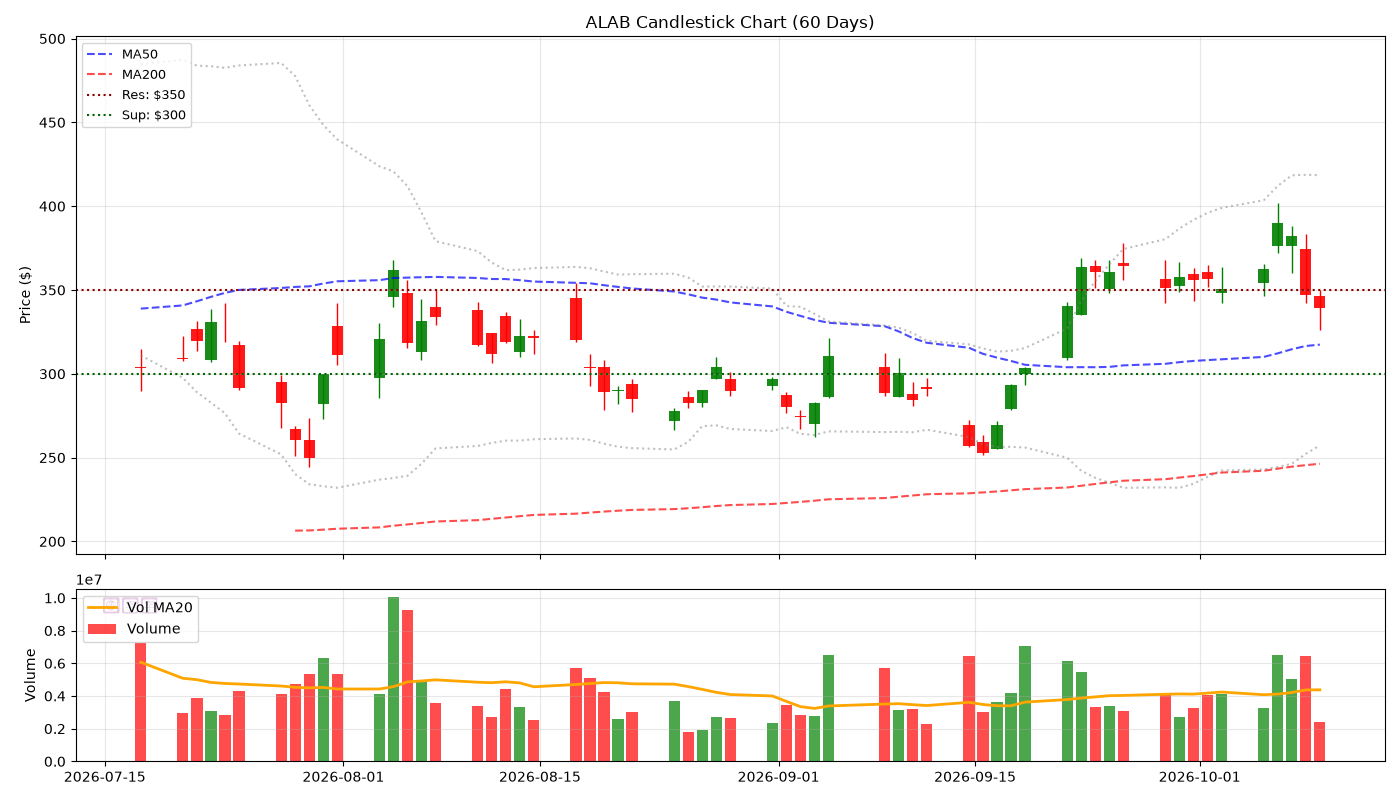
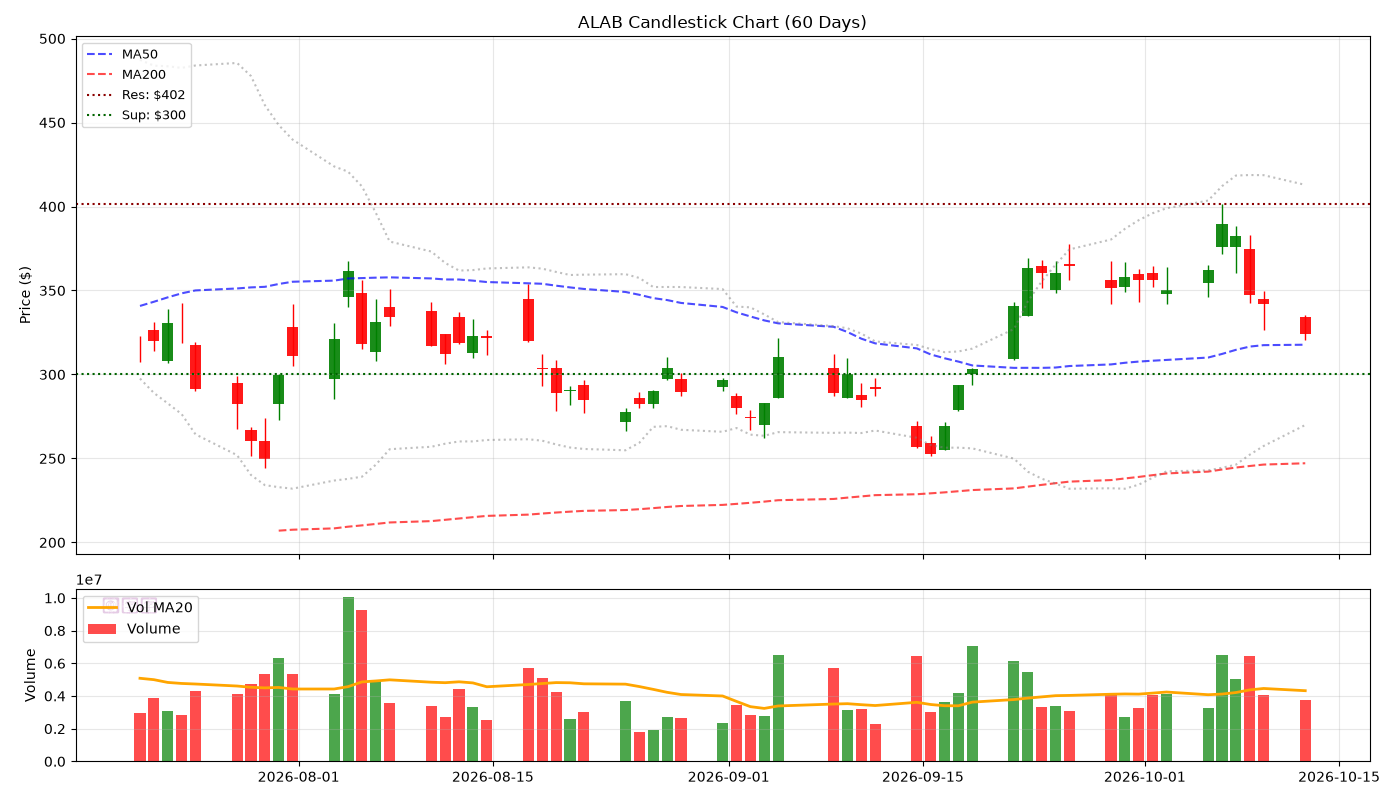
feat(v5): 2026-10-13 Candlestick

diff --git a/reports/2026-10-13.md b/reports/2026-10-13.md
@@ -1,0 +1,85 @@
+# 🕯 Hermes V5 陰陽燭專業日報 - 2026-10-13
+> **生成時間**: 2026-10-13 06:00:31 | **圖表**: 正宗陰陽燭 + Volume
+
+---
+
+## 📊 核心數據
+
+| 股票 | 價格 | 漲跌% | RSI | 成交量 | 阻力 | 支撐 |
+|------|------|-------|-----|--------|------|------|
+| SNDK | $1487.33 | -5.97% | 19.8 | 💧 | $1500 | $1464 |
+| MU | $989.04 | -3.88% | 32.1 | 💧 | $1000 | $918 |
+| SOXL | $128.40 | -8.13% | 34.9 | 💧 | $150 | $101 |
+| TSLA | $378.03 | -1.22% | 49.4 | 💧 | $389 | $346 |
+| APP | $270.87 | -2.23% | 18.0 | 💧 | $300 | $267 |
+| NOW | $140.32 | -0.38% | 55.0 | 💧 | $148 | $127 |
+| CAT | $799.37 | -0.14% | 47.6 | 💧 | $800 | $774 |
+| AMAT | $497.53 | -1.87% | 60.8 | 💧 | $500 | $412 |
+| NOK | $9.90 | -4.44% | 39.3 | 💧 | $11 | $10 |
+| ALAB | $324.11 | -5.29% | 36.0 | 💧 | $402 | $300 |
+
+---
+
+## 📈 個股陰陽燭分析
+
+### SNDK ($1487.33, -5.97%)
+![Candlestick](../charts/SNDK.png)
+
+- **RSI**: 19.8 | **Vol**: NORMAL
+- **關鍵位**: 阻力 $1500.00 | 支撐 $1464.43
+
+### MU ($989.04, -3.88%)
+![Candlestick](../charts/MU.png)
+
+- **RSI**: 32.1 | **Vol**: NORMAL
+- **關鍵位**: 阻力 $1000.00 | 支撐 $917.64
+
+### SOXL ($128.40, -8.13%)
+![Candlestick](../charts/SOXL.png)
+
+- **RSI**: 34.9 | **Vol**: NORMAL
+- **關鍵位**: 阻力 $150.00 | 支撐 $100.96
+
+### TSLA ($378.03, -1.22%)
+![Candlestick](../charts/TSLA.png)
+
+- **RSI**: 49.4 | **Vol**: NORMAL
+- **關鍵位**: 阻力 $388.56 | 支撐 $345.88
+
+### APP ($270.87, -2.23%)
+![Candlestick](../charts/APP.png)
+
+- **RSI**: 18.0 | **Vol**: NORMAL
+- **關鍵位**: 阻力 $300.00 | 支撐 $266.84
+
+### NOW ($140.32, -0.38%)
+![Candlestick](../charts/NOW.png)
+
+- **RSI**: 55.0 | **Vol**: NORMAL
+- **關鍵位**: 阻力 $148.14 | 支撐 $126.75
+
+### CAT ($799.37, -0.14%)
+![Candlestick](../charts/CAT.png)
+
+- **RSI**: 47.6 | **Vol**: NORMAL
+- **關鍵位**: 阻力 $800.00 | 支撐 $774.48
+
+### AMAT ($497.53, -1.87%)
+![Candlestick](../charts/AMAT.png)
+
+- **RSI**: 60.8 | **Vol**: NORMAL
+- **關鍵位**: 阻力 $500.00 | 支撐 $411.51
+
+### NOK ($9.90, -4.44%)
+![Candlestick](../charts/NOK.png)
+
+- **RSI**: 39.3 | **Vol**: NORMAL
+- **關鍵位**: 阻力 $11.05 | 支撐 $9.80
+
+### ALAB ($324.11, -5.29%)
+![Candlestick](../charts/ALAB.png)
+
+- **RSI**: 36.0 | **Vol**: NORMAL
+- **關鍵位**: 阻力 $401.74 | 支撐 $300.00
+
+*Generated by Hermes Agent V5 (Candlestick Pro)*

diff --git a/index.md b/index.md
@@ -1,12 +1,12 @@
 # 🌍 Hermes V5 陰陽燭情報中心
-> **更新**: 2026-10-10 00:31:32
+> **更新**: 2026-10-13 06:00:31
 
 | 股票 | 價格 | 漲跌% | RSI | Vol |
 |------|------|-------|-----|-----|
-| SNDK | $1604.66 | -0.30% | 37.8 | 💤 |
-| MU | $1028.08 | -0.75% | 47.5 | 💤 |
-| SOXL | $138.98 | -2.48% | 48.1 | 💤 |
-| TSLA | $382.87 | +2.10% | 55.1 | 💤 |
-| APP | $277.69 | -0.87% | 19.1 | 💤 |
+| SNDK | $1487.33 | -5.97% | 19.8 | 💤 |
+| MU | $989.04 | -3.88% | 32.1 | 💤 |
+| SOXL | $128.40 | -8.13% | 34.9 | 💤 |
+| TSLA | $378.03 | -1.22% | 49.4 | 💤 |
+| APP | $270.87 | -2.23% | 18.0 | 💤 |
 
-📖 [查看完整陰陽燭報告](reports/2026-10-10.md)
+📖 [查看完整陰陽燭報告](reports/2026-10-13.md)
